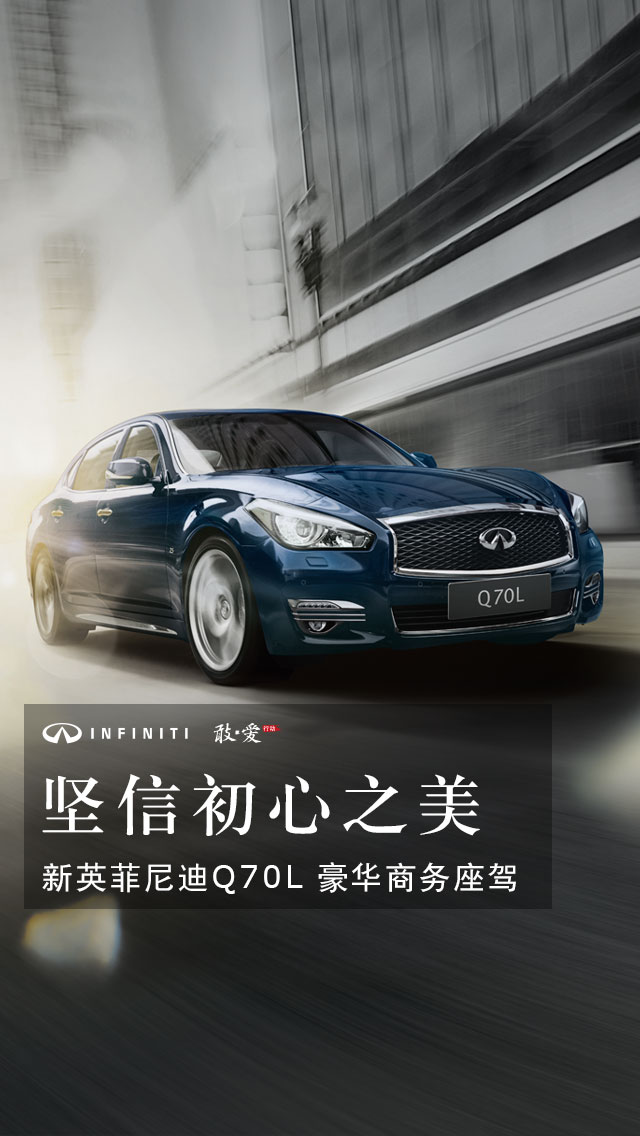
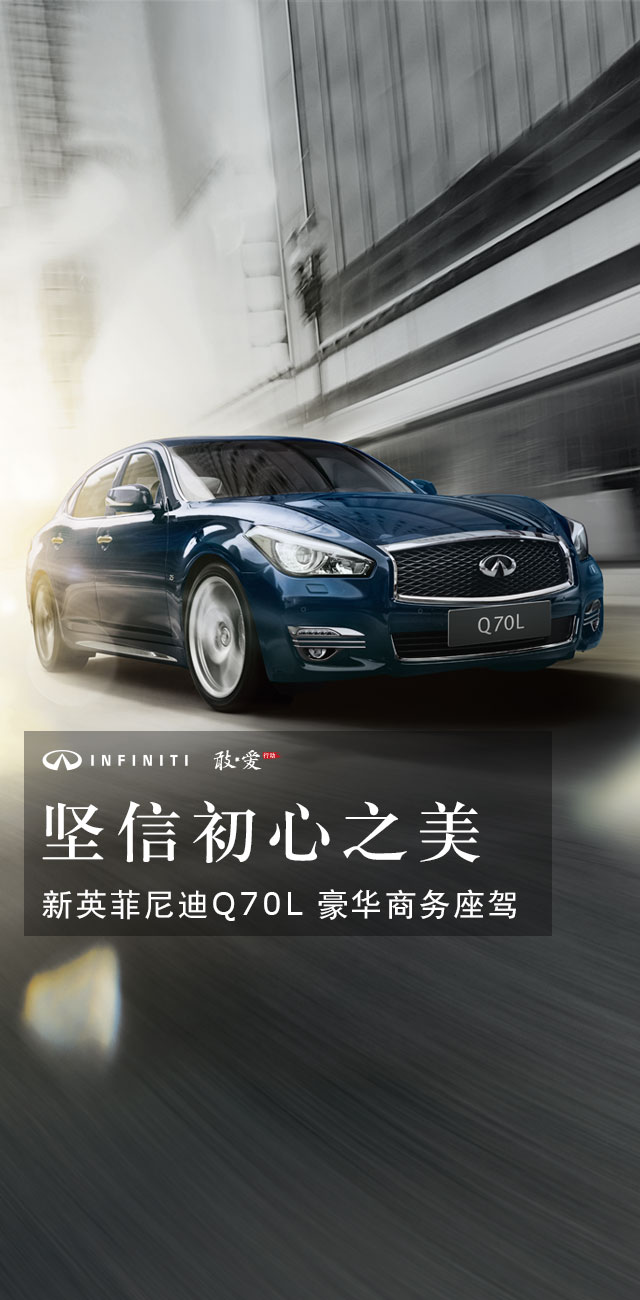
adjust bg

diff --git a/activities/Infiniti/index.html b/activities/Infiniti/index.html
@@ -146,19 +146,14 @@ body {
     animation-iteration-count: infinite;
 }
 
-.img1 {
-    background: url(img/1.jpg);
-    width: 100%;
-    background-size: cover;
-}
 
 .section {
     height: 100%;
     overflow: hidden;
 }
-.section1 img{
+/*.section1 img{
     height: 100%
-}
+}*/
 .section2{
     background:#262626; 
 }
